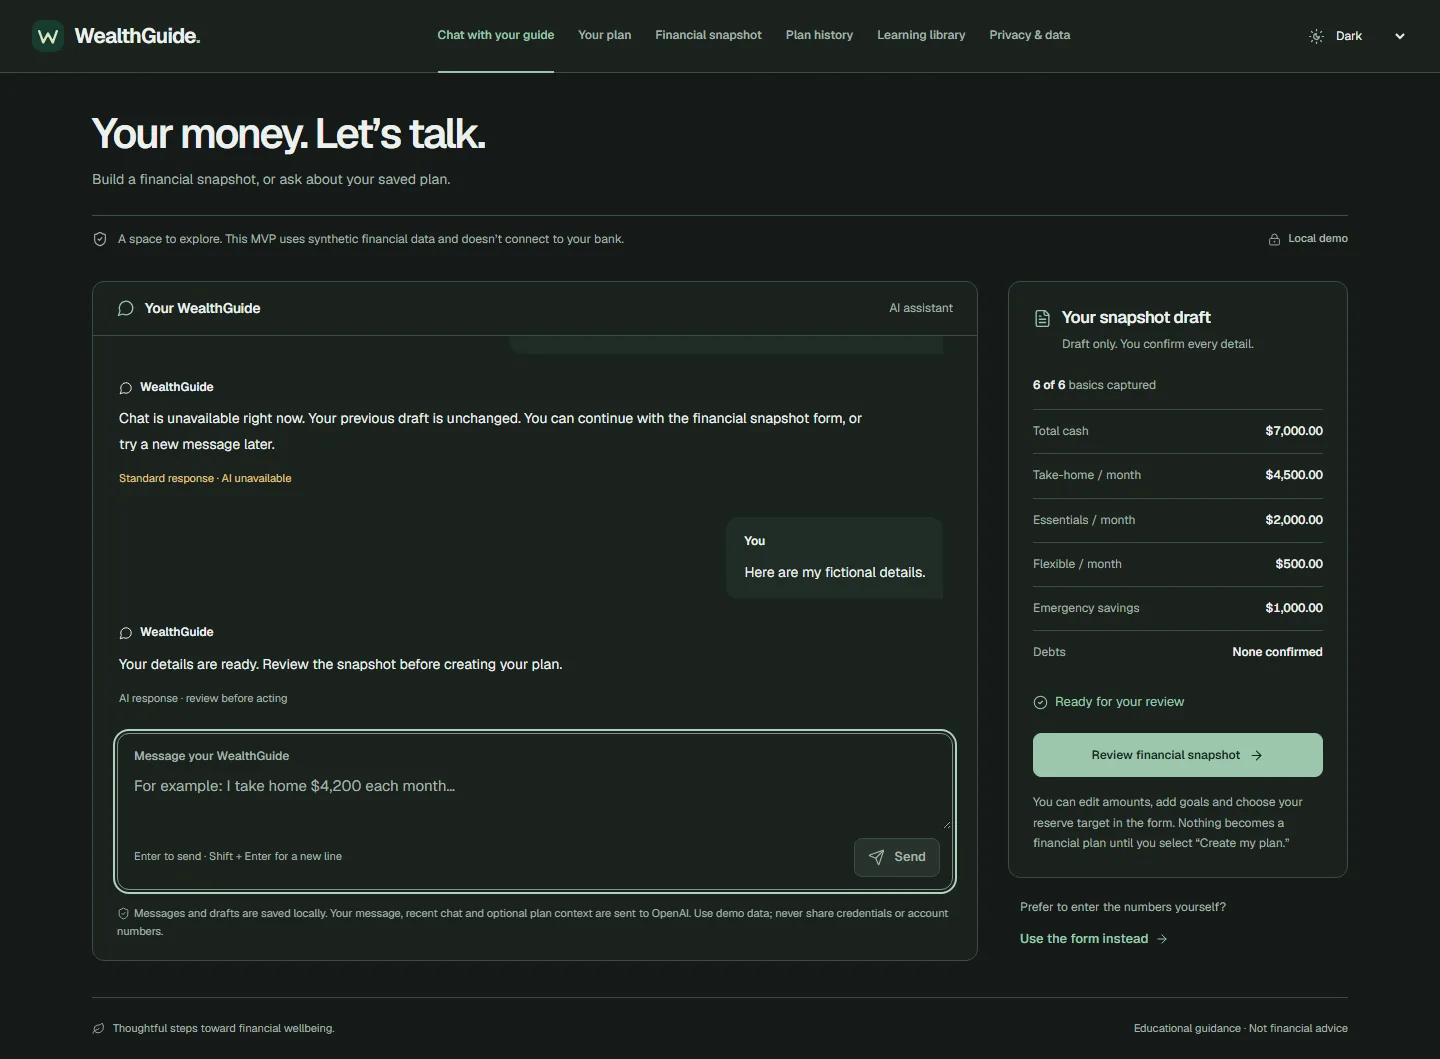
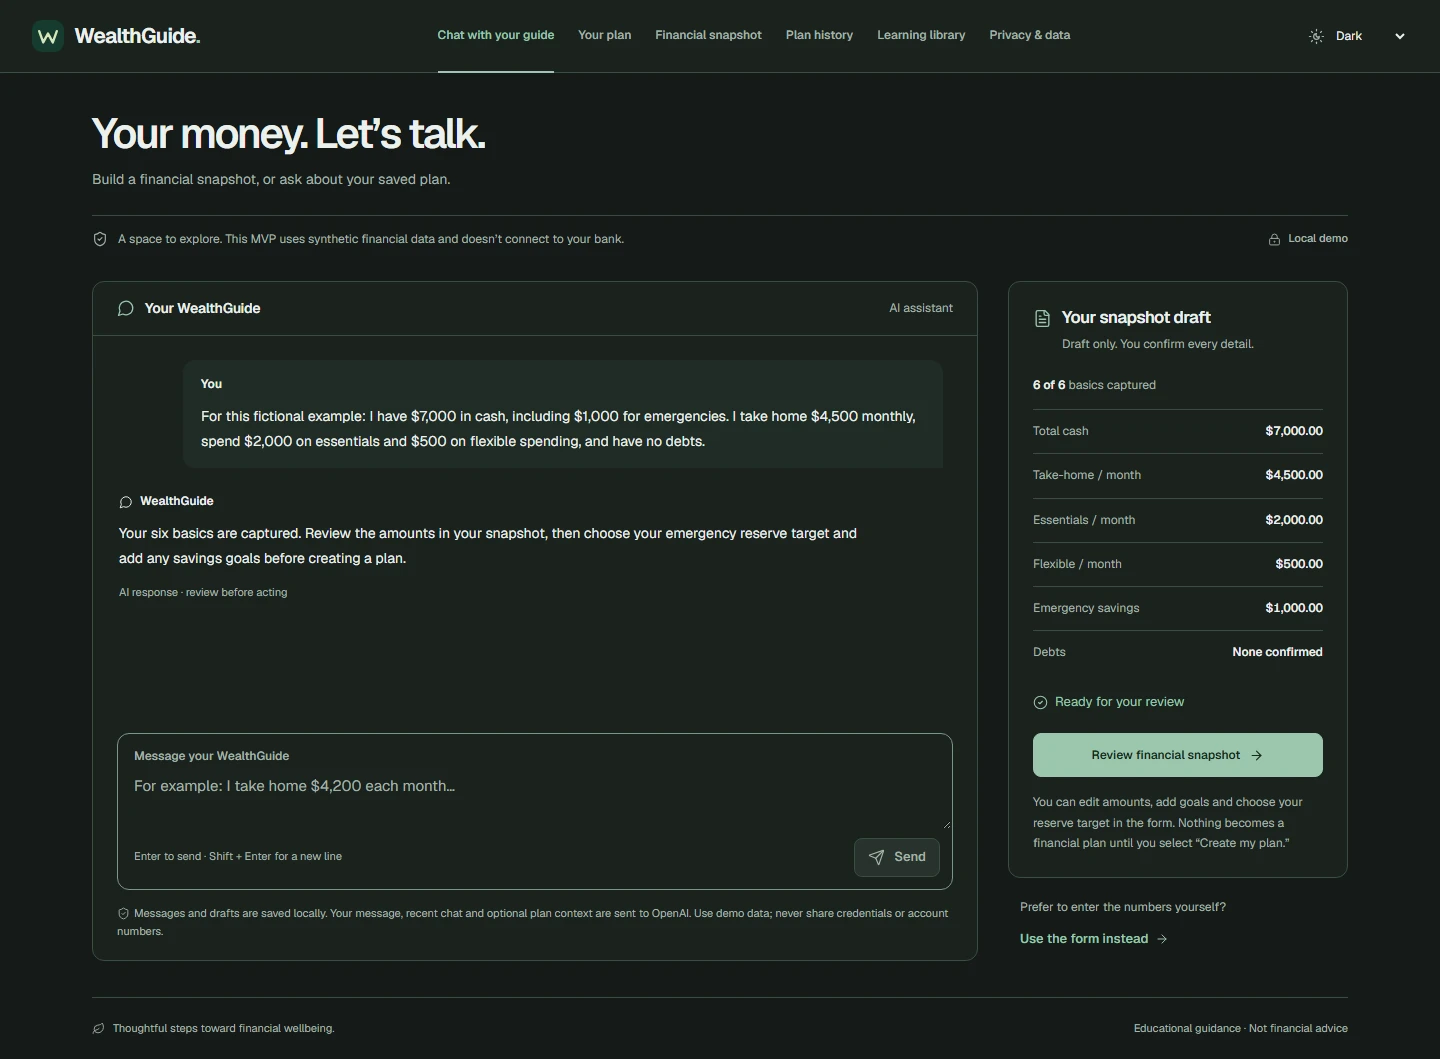
Showcase Journey Log and refresh WealthGuide screenshots

Changed region(s): [[0.0625, 0.3428, 0.6562, 0.5609], [0.0938, 0.5921, 0.375, 0.6856]]

diff --git a/index.html b/index.html
@@ -108,11 +108,34 @@
               <a class="text-link" href="https://github.com/YousefAlSalqan/WealthGuide/blob/main/docs/CALCULATIONS.md">Read the calculation rules <span aria-hidden="true">↗</span></a>
             </div>
             <figure>
+              <a href="assets/wealthguide-chat.webp" aria-label="View full WealthGuide chat screenshot">
               <img src="assets/wealthguide-chat.webp" width="1440" height="1059" loading="lazy" decoding="async" alt="WealthGuide chat with a synthetic conversation and a completed draft ready for review.">
-              <figcaption>Chat and draft review. Synthetic test conversation.</figcaption>
+              </a>
+              <figcaption>Latest chat and draft review. Synthetic demo conversation. Select to enlarge.</figcaption>
             </figure>
           </div>
         </details>
+      </article>
+
+      <article class="journey-project" aria-labelledby="journey-heading">
+        <div class="journey-intro">
+          <div><p class="eyebrow">Engineering at LOOKOUT</p><h3 id="journey-heading">Journey Log</h3></div>
+          <p>I owned and shipped the Journey Log filter suite for finding recorded journeys and footage. These screens show the surrounding fleet and scene-review workflow. Select any screenshot to explore it at full size.</p>
+        </div>
+        <div class="journey-gallery">
+          <figure class="journey-lead">
+            <a href="assets/journey-search.png" aria-label="View full Journey Log search screenshot"><img src="assets/journey-search.png" width="1918" height="905" loading="lazy" decoding="async" alt="Journey Log search with location and date filters, risk sorting, a calendar, and recorded journey timelines."></a>
+            <figcaption>01 / Journey search. Location, date and risk filters over recorded journeys.</figcaption>
+          </figure>
+          <figure>
+            <a href="assets/journey-fleet.png" aria-label="View full fleet overview screenshot"><img src="assets/journey-fleet.png" width="1907" height="905" loading="lazy" decoding="async" alt="LOOKOUT fleet overview showing vessel locations on a globe and a fleet table ranked by risk."></a>
+            <figcaption>02 / Fleet overview. Vessel status, locations and risk at a glance.</figcaption>
+          </figure>
+          <figure>
+            <a href="assets/journey-scene.png" aria-label="View full scene review screenshot"><img src="assets/journey-scene.png" width="1918" height="905" loading="lazy" decoding="async" alt="LOOKOUT scene review showing camera footage with detection overlays, a proximity timeline and a vessel map."></a>
+            <figcaption>03 / Scene review. Footage, detection overlays and proximity data together.</figcaption>
+          </figure>
+        </div>
       </article>
 
       <div class="other-projects">

diff --git a/styles.css b/styles.css
@@ -92,7 +92,7 @@ h3{font-size:25px;font-weight:580;line-height:1.3;letter-spacing:-.035em}
 .featured-copy .project-note{font-size:11px!important;line-height:1.6;margin-top:14px;max-width:35ch!important}
 .project-image{min-width:0}
 .project-image a{display:block;border:1px solid var(--line);border-radius:12px;overflow:hidden;background:#f6f8f7}
-.project-image img{aspect-ratio:1.18;object-fit:cover;object-position:top}
+.project-image img{height:auto}
 .project-image figcaption{text-align:right}
 .case-study{border-top:1px solid var(--line)}
 .case-study summary{padding:20px 42px;display:flex;justify-content:space-between;align-items:center;font-size:13px;font-weight:550;list-style:none}
@@ -104,6 +104,15 @@ h3{font-size:25px;font-weight:580;line-height:1.3;letter-spacing:-.035em}
 .case-content p{font-size:14px;line-height:1.8;color:var(--muted);margin-bottom:22px}
 .case-content img{border-radius:12px;border:1px solid var(--line)}
 .text-link{font-size:13px;font-weight:550;color:var(--accent)}
+.journey-project{margin-top:64px;padding-top:38px;border-top:1px solid var(--line)}
+.journey-intro{display:grid;grid-template-columns:1fr 1.4fr;gap:38px;align-items:start;margin-bottom:30px}
+.journey-intro .eyebrow{margin-bottom:12px}
+.journey-intro h3{font-size:36px}
+.journey-intro>p{font-size:14px;line-height:1.8;color:var(--muted);max-width:70ch}
+.journey-gallery{display:grid;grid-template-columns:1fr 1fr;gap:26px}
+.journey-lead{grid-column:1/-1}
+.journey-gallery a{display:block;border:1px solid var(--line);border-radius:12px;overflow:hidden}
+.journey-gallery figure{min-width:0}
 .other-projects{display:grid;grid-template-columns:1fr 1fr;column-gap:70px;margin-top:54px}
 .project{border-top:1px solid var(--line);padding:30px 0 28px;display:flex;flex-direction:column;align-items:flex-start}
 .project h3{font-size:25px;max-width:30ch}
@@ -191,7 +200,10 @@ h3{font-size:25px;font-weight:580;line-height:1.3;letter-spacing:-.035em}
   .featured-top{grid-template-columns:1fr;gap:28px;padding:24px}
   .featured-copy h3{font-size:36px}.featured-copy>p:not(.project-lede):not(.eyebrow){max-width:none}
   .project-lede{font-size:22px}.featured-copy .stack{margin:20px 0}
-  .project-image img{aspect-ratio:1.08}.project-image figcaption{text-align:left;font-size:10px}
+  .project-image figcaption{text-align:left;font-size:10px}
+  .journey-project{margin-top:38px;padding-top:28px}
+  .journey-intro,.journey-gallery{grid-template-columns:1fr;gap:22px}
+  .journey-intro h3{font-size:30px}
   .case-study summary{padding:17px 24px}.case-content{grid-template-columns:1fr;padding:5px 24px 24px;gap:24px}
   .other-projects{grid-template-columns:1fr;margin-top:32px}.project{padding:25px 0}
   .project h3{font-size:24px}.project>p:not(.recognition){font-size:14px;line-height:1.8}

diff --git a/README.md b/README.md
@@ -27,7 +27,8 @@ Content lives in `index.html`, presentation in `styles.css`, and theme/reveal be
 ## Assets and provenance
 
 - `assets/maritime-hero.webp`: AI-generated concept illustration made with OpenAI's image-generation tool on October 1, 2026. It is not a photograph of LOOKOUT equipment. The caption and alternative text identify it as conceptual. The 480px/960px files and favicon are resized derivatives.
-- `assets/wealthguide-plan.webp` and `assets/wealthguide-chat.webp`: screenshots of the actual [WealthGuide](https://github.com/YousefAlSalqan/WealthGuide) interface from its browser checks. All figures and chat messages are synthetic; they are not customer records or evidence of live AI availability. The 640px plan is a resized derivative. The full plan image remains linked from the thumbnail.
+- `assets/wealthguide-plan.webp` and `assets/wealthguide-chat.webp`: actual [WealthGuide](https://github.com/YousefAlSalqan/WealthGuide) redesigned interface at commit `db4cdd7`. The plan comes from its latest browser checks; the chat was freshly captured October 1, 2026 using browser-only API fixtures, without paid AI calls or database writes. All figures and messages are synthetic, not customer records or evidence of live AI availability. The 640px plan is a resized derivative. Both screenshots are uncropped and link to full-size images.
+- `assets/journey-search.png`, `assets/journey-fleet.png`, and `assets/journey-scene.png`: original LOOKOUT screenshots supplied by Yousef on October 1, 2026, with explicit approval to publish all three as provided, including visible names and the private-view label. The project copy credits ownership of the Journey Log filter suite, not the entire application.
 - `assets/fonts/archivo-variable.woff2`: self-hosted Latin subset of [Archivo from Google Fonts](https://github.com/google/fonts/tree/main/ofl/archivo). The original [SIL Open Font License](assets/fonts/OFL.txt) is included.
 
 The maritime illustration used this prompt:
